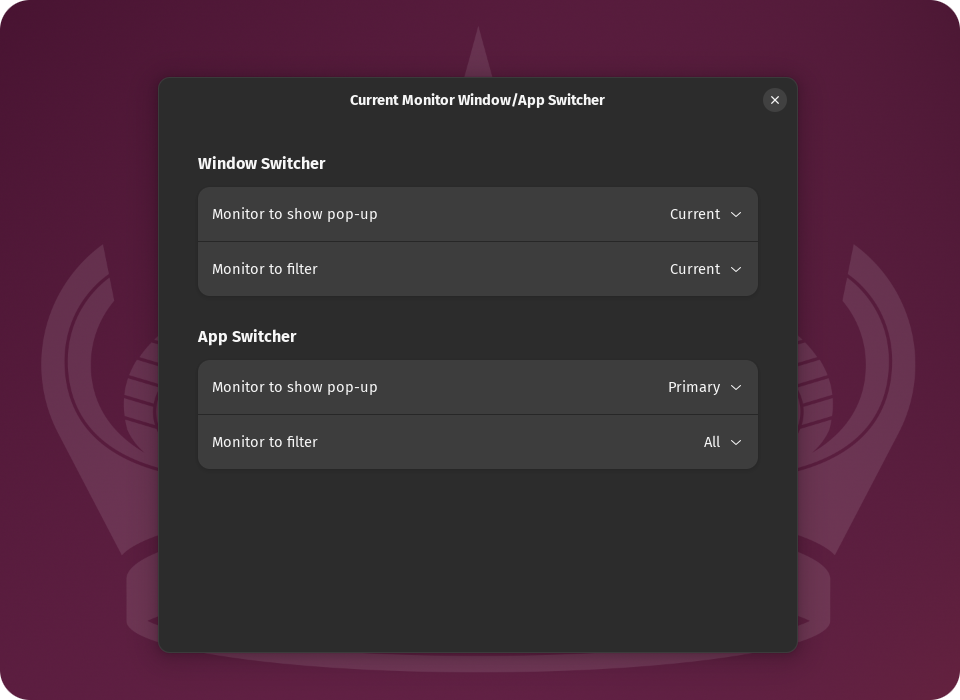
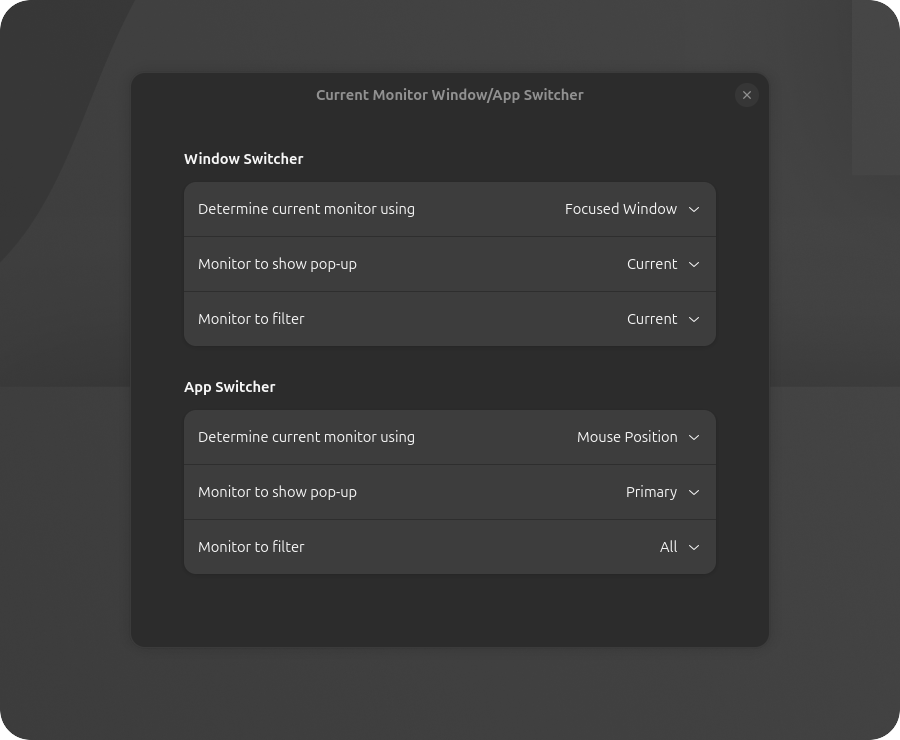
Update README

diff --git a/README.md b/README.md
@@ -17,9 +17,14 @@ https://extensions.gnome.org/extension/7460/current-monitor-windowapp-switcher/
 cd ~/.local/share/gnome-shell/extensions
 git clone https://github.com/thmatosbr/current-monitor-window-app-switcher.git current-monitor-window-app-switcher@thmatosbr
 ```
-2. Restart GNOME Shell:
-  - Press <kbd>Alt</kbd>+<kbd>F2</kbd> and run the built-in `restart` command
-3. Enable the extension:
+2. Compile extension schemas:
+```sh
+glib-compile-schemas ~/.local/share/gnome-shell/extensions/current-monitor-window-app-switcher@thmatosbr/schemas/
+```
+3. Restart GNOME Shell:
+  - X11: Press <kbd>Alt</kbd>+<kbd>F2</kbd> and run the built-in `restart` command
+  - Wayland: Better Log Out and log back in
+4. Enable the extension:
 ```sh
 gnome-extensions enable current-monitor-window-app-switcher@thmatosbr
 ```
